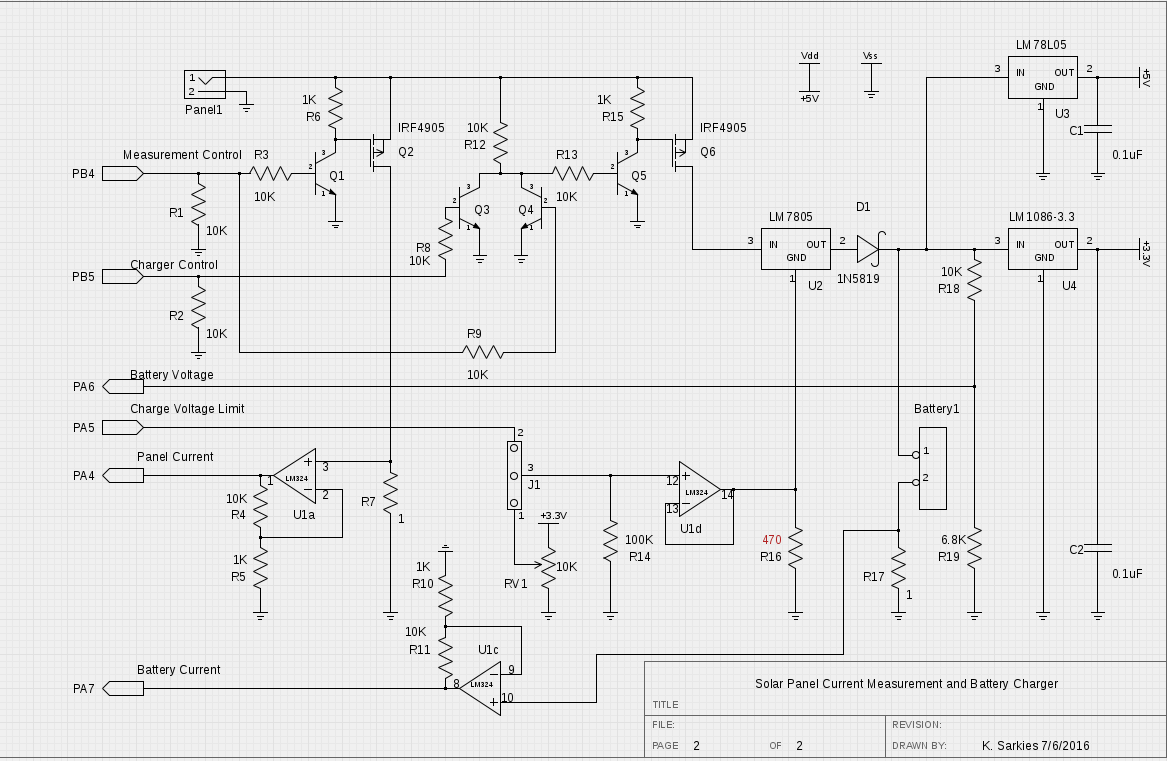
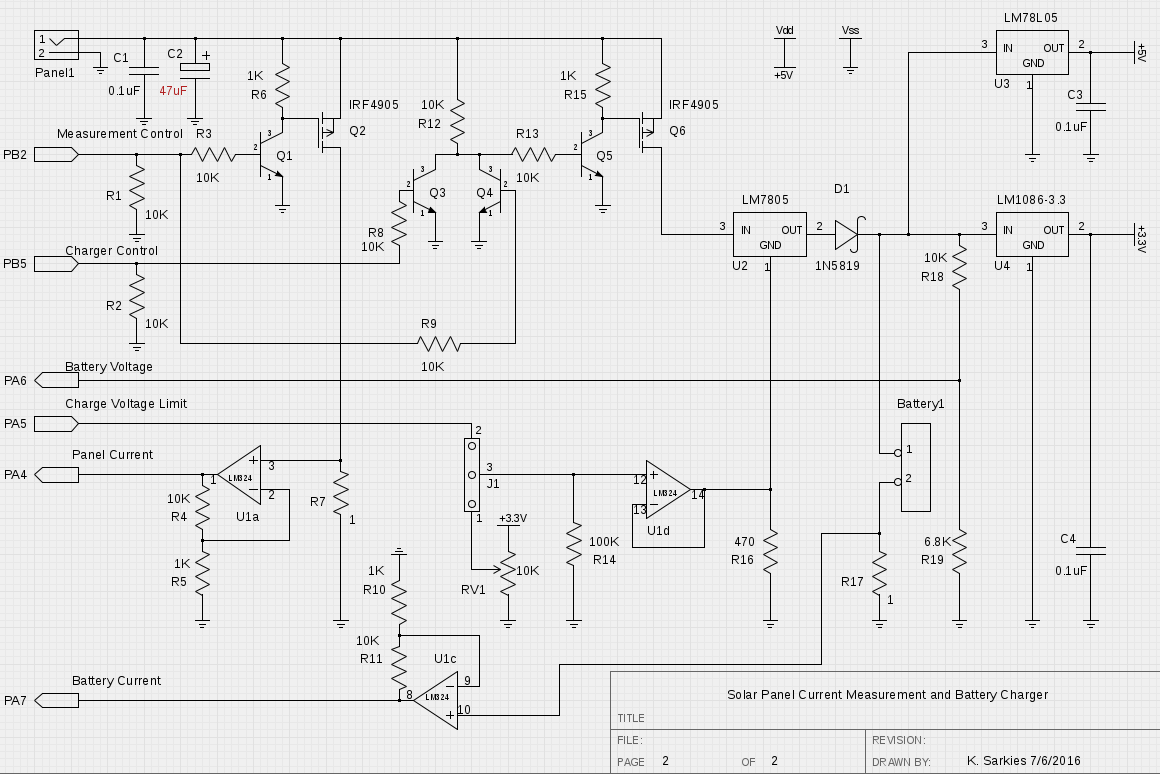
Fix some problems with measurement of currents andmove irradiance switch to PB2 due to faulty hardware.

diff --git a/Weather-Station-firmware-ARM/weather-station.c b/Weather-Station-firmware-ARM/weather-station.c
@@ -17,7 +17,7 @@ allocations are:
 For battery charging the following are needed:
 - PA6 to measure battery voltage on ADC12-IN5.
 - PA7 to measure battery current on ADC12-IN6.
-- PB3 to switch the panel to charge the battery.
+- PB2 to switch the panel to charge the battery.
 - PB5 to switch the panel to the solar radiance current measurement circuit.
 
 USART1 is on PA8-PA12 with Tx on PA9 and Rx on PA10.
@@ -25,7 +25,7 @@ USART1 is on PA8-PA12 with Tx on PA9 and Rx on PA10.
 NOTE: The battery must be in place otherwise when the charger is disabled by
 the program the processor will power off.
 
-NOTE: the test ET-STM32 STAMP board has a faulty PB4.
+NOTE: the test ET-STM32 STAMP board has a faulty PB4 and PB3.
 */
 
 /*
@@ -64,7 +64,7 @@ NOTE: the test ET-STM32 STAMP board has a faulty PB4.
 #define MEASUREMENT_PERIOD      2000
 #define RADIANCE_SETTLE_TIME     100
 /* Resistor values times 10 */
-#define VOLTAGE_SENSE             12        
+#define BATTERY_SENSE             12        
 #define RADIANCE_SENSE            10       
 /* Amplification of current sense voltage */
 #define I_AMP                    110 
@@ -126,7 +126,7 @@ int main(void)
             delay(1);
         }
 /* Voltage times 256 for fixed point scaling, with sense resistor (x10)
-and amplification (x100) */
+and amplification (x100) will give results in volts. */
         uint32_t voltage = ((voltageRaw>>4)*256*V_AMP)/(1241*100);/* Volts */
         usart_print_string("dV,");
         usart_print_fixed_point(voltage);
@@ -134,7 +134,7 @@ and amplification (x100) */
 
 /* Read and send Battery Current. */
 
-        uint16_t currentRaw = 0;
+        uint32_t currentRaw = 0;
         channel[0] = ADC_CHANNEL7;          /* channel 7 battery current */
 	    adc_set_regular_sequence(ADC1, 1, channel);
         for (i=0; i<16; i++)                /* Average over 16 readings */
@@ -144,9 +144,10 @@ and amplification (x100) */
             currentRaw += adc_read_regular(ADC1);
         }
 /* Current in mA times 256 for fixed point scaling, with sense resistor (x10)
-and current amplification (x10) */
+and current amplification (x10) and scale back to average 16 readings.
+Note order of computations to avoid 32 bit overflow. */
         uint32_t current = 
-                ((currentRaw>>4)*256*1000*VOLTAGE_SENSE)/(1241*I_AMP);
+                ((currentRaw*BATTERY_SENSE*1000)/(1241*I_AMP))*16;  /* mA */
         usart_print_string("dI,");
         usart_print_fixed_point(current);
         usart_print_string("\n\r");
@@ -184,20 +185,21 @@ This cycles between the absorption voltage limit and the float voltage limit. */
 /* Read and send solar panel current. Use simple polling of the ADC. */
 
         enableRadianceMeasurement();
-        uint16_t radianceRaw = 0;
+        uint32_t radianceRaw = 0;
         channel[0] = ADC_CHANNEL4;          /* channel 4 radiance */
 	    adc_set_regular_sequence(ADC1, 1, channel);
         for (i=0; i<16; i++)                /* Average over 16 readings */
         {
             adc_start_conversion_direct(ADC1);
             while (! adc_eoc(ADC1));
-            radianceRaw = adc_read_regular(ADC1);
+            radianceRaw += adc_read_regular(ADC1);
         }
         disableRadianceMeasurement();       /* Puts charging back on */
 /* Current in mA times 256 for fixed point scaling, with sense resistor (x10)
-and current amplification (x10) */
+and current amplification (x10) and scale back to average 16 readings.
+Note order of computations to avoid 32 bit overflow. */
         uint32_t radiance =
-                (radianceRaw>>4)*256*1000*RADIANCE_SENSE/(1241*I_AMP);
+                ((radianceRaw*RADIANCE_SENSE*1000)/(1241*I_AMP))*16;/* mA */
         usart_print_string("dL,");
         usart_print_fixed_point(radiance);
         usart_print_string("\n\r");
@@ -238,7 +240,7 @@ void enableRadianceMeasurement(void)
 {
     chargerIsActive = chargerActive();
     disableCharging();                  /* turn off charger */
-    gpio_set(GPIOB, GPIO3);             /* Turn on measurement switch */
+    gpio_set(GPIOB, GPIO2);             /* Turn on measurement switch */
     delay(RADIANCE_SETTLE_TIME);
 }
 
@@ -251,7 +253,7 @@ if it was in a charging state at the time of measurement.
 
 void disableRadianceMeasurement(void)
 {
-    gpio_clear(GPIOB, GPIO3);           /* Turn off measurement switch */
+    gpio_clear(GPIOB, GPIO2);           /* Turn off measurement switch */
     if (chargerIsActive) enableCharging();
     else disableCharging();
 }
@@ -343,11 +345,11 @@ void gpioSetup(void)
 /*    gpio_clear(GPIOB, GPIO8 | GPIO9 | GPIO10 | GPIO11 | GPIO12 | GPIO13 |
                GPIO14 | GPIO15); */
 
-/* Set GPIO3, GPIO5 (in GPIO port B) to 'output push-pull' for the MOSFETs. */
+/* Set GPIO2, GPIO5 (in GPIO port B) to 'output push-pull' for the MOSFETs. */
     gpio_set_mode(GPIOB, GPIO_MODE_OUTPUT_2_MHZ,
-		      GPIO_CNF_OUTPUT_PUSHPULL, GPIO3 | GPIO5);
+		      GPIO_CNF_OUTPUT_PUSHPULL, GPIO2 | GPIO5);
 /* All MOSFET controls off. */
-    gpio_clear(GPIOB, GPIO3 | GPIO5);
+    gpio_clear(GPIOB, GPIO2 | GPIO5);
 }
 
 /*--------------------------------------------------------------------------*/
